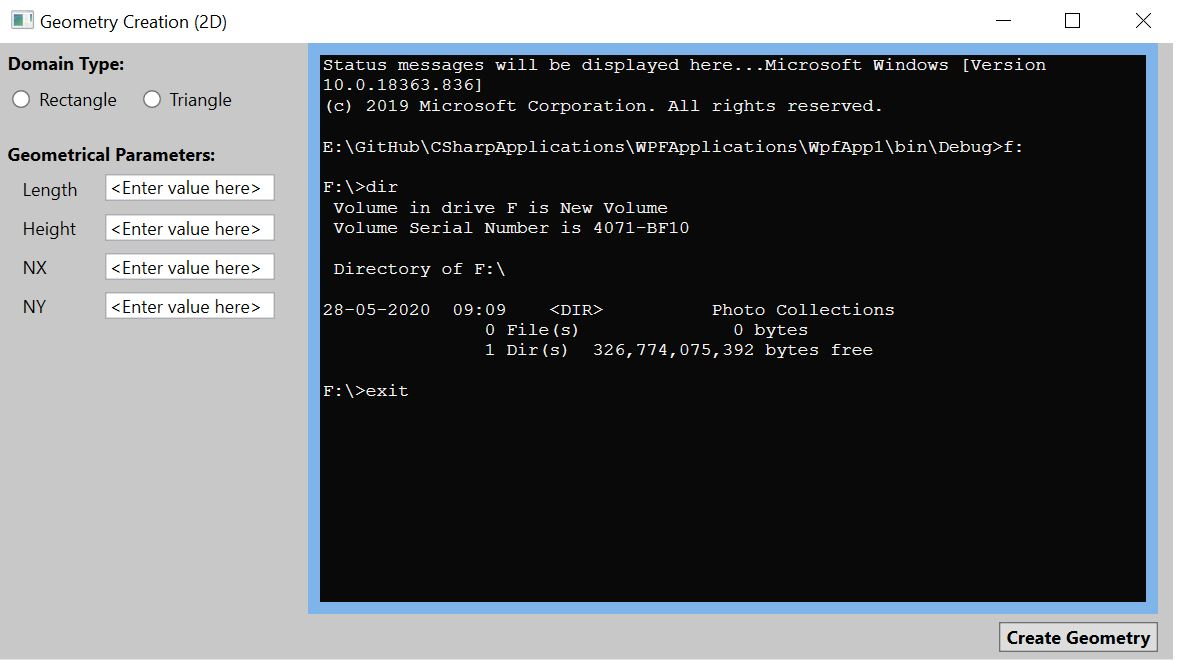
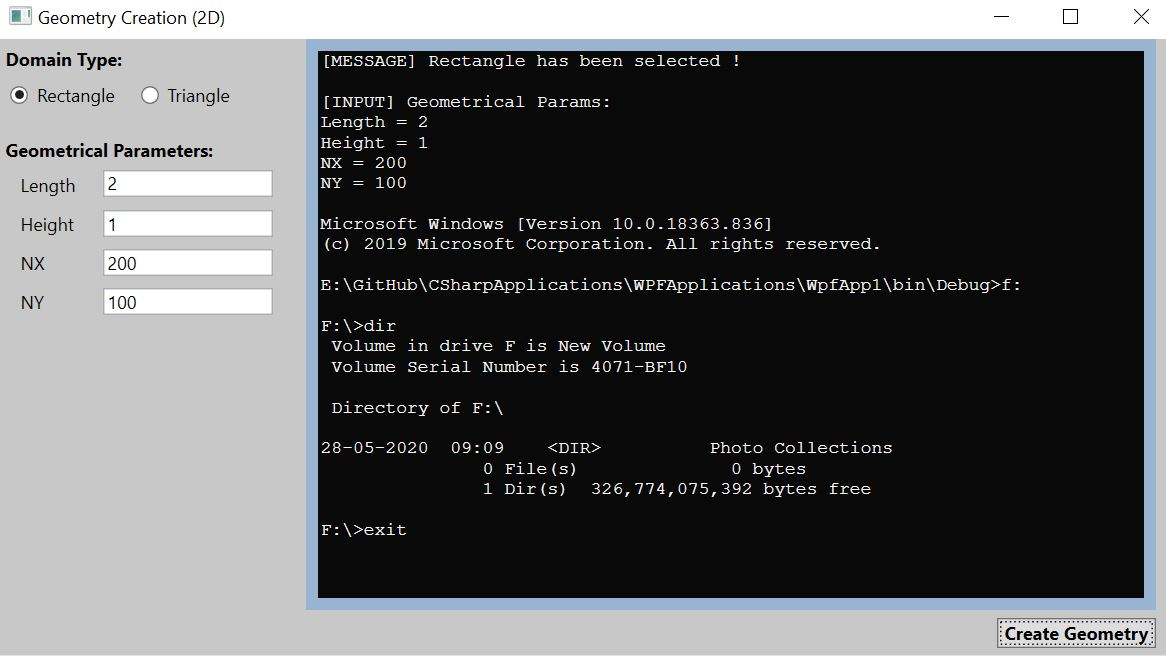
Updated input actions and added callbacks

diff --git a/MainWindow.xaml b/MainWindow.xaml
@@ -7,7 +7,7 @@
         mc:Ignorable="d"
         Title="Geometry Creation (2D)" Height="450" Width="800">
     <Grid Background="{DynamicResource {x:Static SystemColors.ScrollBarBrushKey}}" Margin="0,0,3.333,1.667">
-        <TextBox x:Name="textBox1" IsReadOnly="True" Margin="205,0,10,30" TextWrapping="Wrap" Text="Status messages will be displayed here..." UndoLimit="99" Background="#FF090909" Foreground="#FFF8F6F6" FontFamily="Courier New" BorderThickness="8" HorizontalScrollBarVisibility="Auto" ScrollViewer.CanContentScroll="True" VerticalScrollBarVisibility="Auto" MinWidth="500" MinHeight="380" BorderBrush="{DynamicResource {x:Static SystemColors.ActiveCaptionBrushKey}}"/>
+        <TextBox x:Name="textBox1" IsReadOnly="True" Margin="205,0,10,30" TextWrapping="Wrap" Text="Status messages will be displayed here..." UndoLimit="99" Background="#FF090909" Foreground="#FFF8F6F6" FontFamily="Courier New" BorderThickness="8" HorizontalScrollBarVisibility="Auto" ScrollViewer.CanContentScroll="True" VerticalScrollBarVisibility="Auto" MinWidth="500" MinHeight="380" BorderBrush="{DynamicResource {x:Static SystemColors.ActiveCaptionBrushKey}}" TextChanged="textBox1_TextChanged_1"/>
         <Button Content="Create Geometry" HorizontalAlignment="Right" Margin="0,0,10,5" VerticalAlignment="Bottom" Width="106" RenderTransformOrigin="7.953,2" Click="CreateGeometryButton_Click" VerticalContentAlignment="Center" Padding="1" FontWeight="Bold">
             <Button.RenderTransform>
                 <TransformGroup>
@@ -19,17 +19,17 @@
             </Button.RenderTransform>
         </Button>
         <Label Content="Domain Type:" HorizontalAlignment="Left" VerticalAlignment="Top" FontWeight="Bold"/>
-        <RadioButton Content="Rectangle" HorizontalAlignment="Left" Margin="7,30,0,0" VerticalAlignment="Top"/>
-        <RadioButton Content="Triangle" HorizontalAlignment="Left" Margin="94,30,0,0" VerticalAlignment="Top" Checked="RadioButton_Checked"/>
+        <RadioButton Content="Rectangle" HorizontalAlignment="Left" Margin="7,30,0,0" VerticalAlignment="Top" Checked="RectangleRadioButton_Checked"/>
+        <RadioButton Content="Triangle" HorizontalAlignment="Left" Margin="94,30,0,0" VerticalAlignment="Top" Checked="TriangleRadioButton_Checked"/>
         <Label Content="Geometrical Parameters:" HorizontalAlignment="Left" Margin="0,61,0,0" VerticalAlignment="Top" FontWeight="Bold"/>
         <Label Content="Length" HorizontalAlignment="Left" Margin="10,84,0,0" VerticalAlignment="Top" Width="60"/>
         <Label Content="Height" HorizontalAlignment="Left" Margin="10,110,0,0" VerticalAlignment="Top" Width="60"/>
         <Label Content="NX" HorizontalAlignment="Left" Margin="10,136,0,0" VerticalAlignment="Top" Width="60"/>
         <Label Content="NY" HorizontalAlignment="Left" Margin="10,162,0,0" VerticalAlignment="Top" Width="60"/>
-        <TextBox HorizontalAlignment="Left" Height="18" Margin="70,87,0,0" TextWrapping="Wrap" Text="&lt;Enter value here&gt;" VerticalAlignment="Top" Width="113"/>
-        <TextBox HorizontalAlignment="Left" Height="18" Margin="70,114,0,0" TextWrapping="Wrap" Text="&lt;Enter value here&gt;" VerticalAlignment="Top" Width="113"/>
-        <TextBox HorizontalAlignment="Left" Height="18" Margin="70,140,0,0" TextWrapping="Wrap" Text="&lt;Enter value here&gt;" VerticalAlignment="Top" Width="113"/>
-        <TextBox HorizontalAlignment="Left" Height="18" Margin="70,166,0,0" TextWrapping="Wrap" Text="&lt;Enter value here&gt;" VerticalAlignment="Top" Width="113"/>
+        <TextBox x:Name="LengthTextBox" HorizontalAlignment="Left" Height="18" Margin="70,87,0,0" TextWrapping="Wrap" Text="&lt;Enter value here&gt;" VerticalAlignment="Top" Width="113" GotFocus="LengthTextBox_GotFocus"/>
+        <TextBox x:Name="HeightTextBox" HorizontalAlignment="Left" Height="18" Margin="70,114,0,0" TextWrapping="Wrap" Text="&lt;Enter value here&gt;" VerticalAlignment="Top" Width="113" GotFocus="HeightTextBox_GotFocus"/>
+        <TextBox x:Name="NXTextBox" HorizontalAlignment="Left" Height="18" Margin="70,140,0,0" TextWrapping="Wrap" Text="&lt;Enter value here&gt;" VerticalAlignment="Top" Width="113" GotFocus="NXTextBox_GotFocus"/>
+        <TextBox x:Name="NYTextBox" HorizontalAlignment="Left" Height="18" Margin="70,166,0,0" TextWrapping="Wrap" Text="&lt;Enter value here&gt;" VerticalAlignment="Top" Width="113" GotFocus="NYTextBox_GotFocus"/>
 
     </Grid>
 </Window>

diff --git a/MainWindow.xaml.cs b/MainWindow.xaml.cs
@@ -35,26 +35,62 @@ namespace WpfApp1
         }
 
         private void CreateGeometryButton_Click(object sender, RoutedEventArgs e)
-        {   
+        {
+            // Display Input Details
+            textBox1.Text += System.Environment.NewLine + System.Environment.NewLine + "[INPUT] Geometrical Params: ";
+            textBox1.Text += System.Environment.NewLine + "Length = " + LengthTextBox.Text;
+            textBox1.Text += System.Environment.NewLine + "Height = " + HeightTextBox.Text;
+            textBox1.Text += System.Environment.NewLine + "NX = " + NXTextBox.Text;
+            textBox1.Text += System.Environment.NewLine + "NY = " + NYTextBox.Text;
+
+            // Start Process
             Proc = Process.Start(psi);
             Proc.StandardInput.WriteLine(@"f:");
             Proc.StandardInput.WriteLine(@"dir");
             Proc.StandardInput.WriteLine(@"exit");
-            textBox1.Text += Proc.StandardOutput.ReadToEnd();
-        }
-        
-        private void RunButton_Click(object sender, RoutedEventArgs e)
-        { 
-        }
+            textBox1.Text += System.Environment.NewLine + System.Environment.NewLine + Proc.StandardOutput.ReadToEnd();
 
-        private void textBox1_TextChanged(object sender, TextChangedEventArgs e)
+            // TODO: after displaying WRITE INPUTS to a file
+            // In C++ side, read inputs and execute
+        }
+               
+        private void RectangleRadioButton_Checked(object sender, RoutedEventArgs e)
         {
-
-        }
-
-        private void RadioButton_Checked(object sender, RoutedEventArgs e)
-        {
-
+            textBox1.Text = "[MESSAGE] Rectangle has been selected !";
         }       
+
+        private void TriangleRadioButton_Checked(object sender, RoutedEventArgs e)
+        {
+            textBox1.Text = "[MESSAGE] Triangle has been selected !";
+        }
+
+        private void textBox1_TextChanged_1(object sender, TextChangedEventArgs e)
+        {
+            // Currently in READ-ONLY mode
+        }
+                
+        public void LengthTextBox_GotFocus(object sender, RoutedEventArgs e)
+        {            
+            LengthTextBox.Text = string.Empty;
+            LengthTextBox.GotFocus -= LengthTextBox_GotFocus;
+        }
+
+        public void HeightTextBox_GotFocus(object sender, RoutedEventArgs e)
+        {
+            HeightTextBox.Text = string.Empty;
+            HeightTextBox.GotFocus -= HeightTextBox_GotFocus;
+        }
+
+        public void NXTextBox_GotFocus(object sender, RoutedEventArgs e)
+        {
+            NXTextBox.Text = string.Empty;
+            NXTextBox.GotFocus -= NXTextBox_GotFocus;
+        }
+
+        public void NYTextBox_GotFocus(object sender, RoutedEventArgs e)
+        {
+            NYTextBox.Text = string.Empty;
+            NYTextBox.GotFocus -= NYTextBox_GotFocus;
+        }
     }
 }

diff --git a/README.md b/README.md
@@ -7,7 +7,7 @@ Create geometry by getting user inputs
 # Pre-requistite(s):
 VS2019 (With WPF installed)
 
-##Refer (for installation guidance): 
+#Refer (for installation guidance): 
 https://docs.microsoft.com/en-us/visualstudio/ide/step-1-create-a-windows-forms-application-project?view=vs-2019
 
 # Directions to explore:
